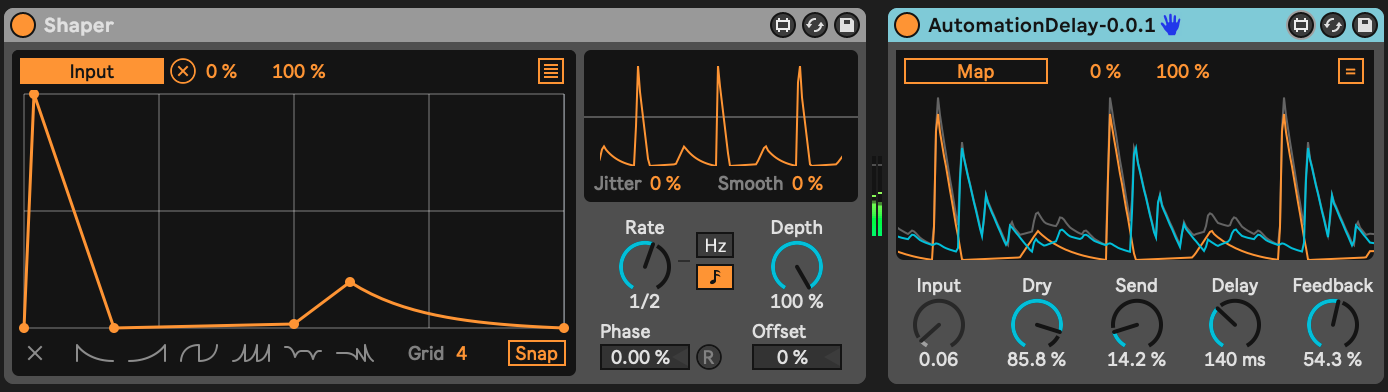
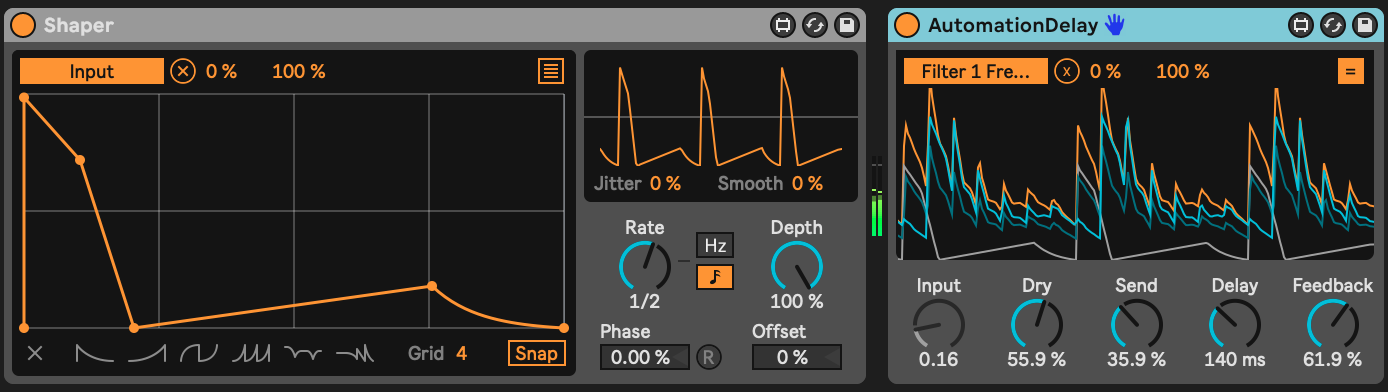
update colors

diff --git a/README.md b/README.md
@@ -12,6 +12,8 @@ Send automation data to its Input, map up to eight automation destinations, and 
 Here is an image of a Shaper device sending a signal to AutomationDelay, where it creates echoes of the input.
 ![How it Looks](images/device.png)
 
+The device plots the input signal in grey, the delay signal in light blue, the feedback signal in dark blue, and the output signal in orange.
+
 ## Installation
 
 [Download the newest .amxd file from the frozen/ directory](https://github.com/zsteinkamp/m4l-zs-AutomationDelay/tree/main/frozen/) or clone this repository, and drag the `AutomationDelay.amxd` device into a track in Ableton Live.
